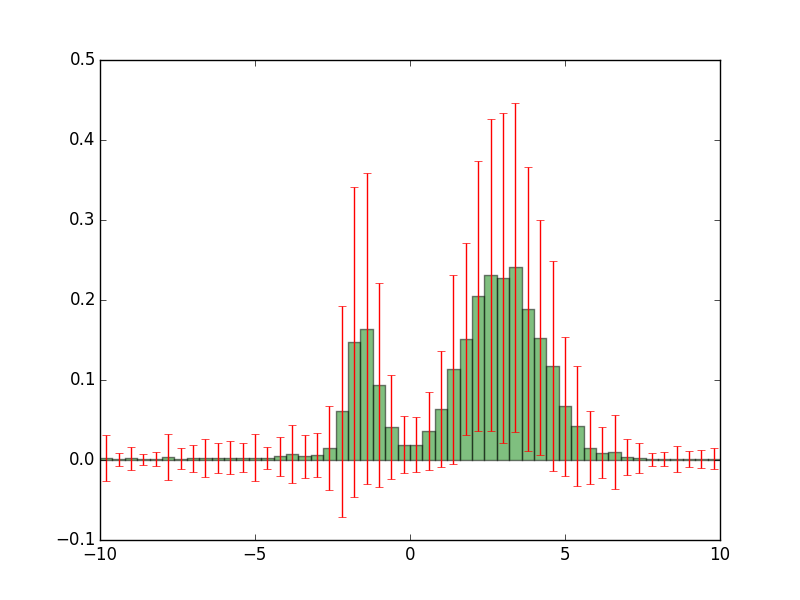
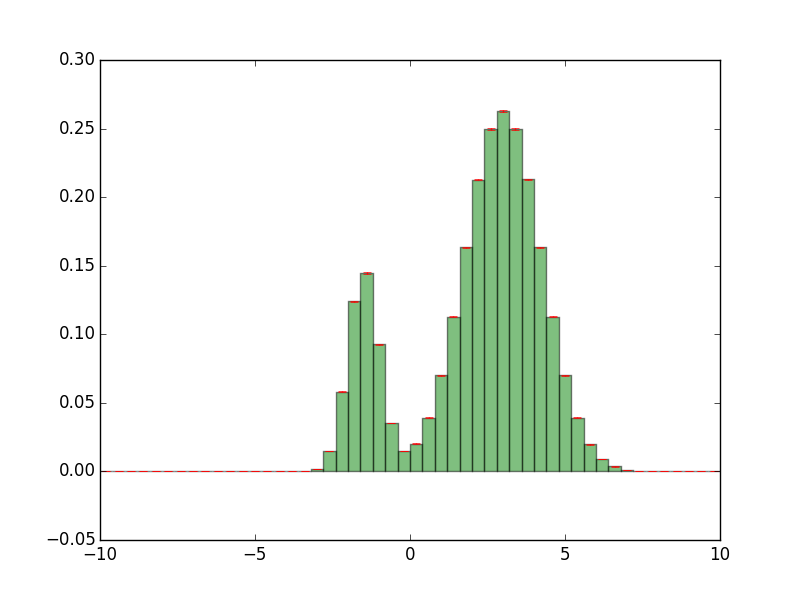
metodo metropolis no necesita w(x) normalizado

diff --git a/p2.py b/p2.py
@@ -16,7 +16,7 @@ def w_normalizado(x):
 
 
 # No es necesario ocupar w_normalizado
-def metropolis(w_normalizado, xn, delta):
+def metropolis(w, xn, delta):
     r = np.random.uniform(-1., 1.)
     xp = xn + delta * r
     gamma = np.random.uniform(0., 1.)
@@ -32,7 +32,7 @@ def xn_mas_1(w, xn, N, delta):
     aceptados = 0.
     rechazados = 0.
     for i in range(len(xn_mas_1)-1):
-        xn_mas_1[i+1] = metropolis(w_normalizado, xn_mas_1[i], delta)
+        xn_mas_1[i+1] = metropolis(w, xn_mas_1[i], delta)
         if xn_mas_1[i+1] == xn_mas_1[i]:
             rechazados += 1.
         else:
